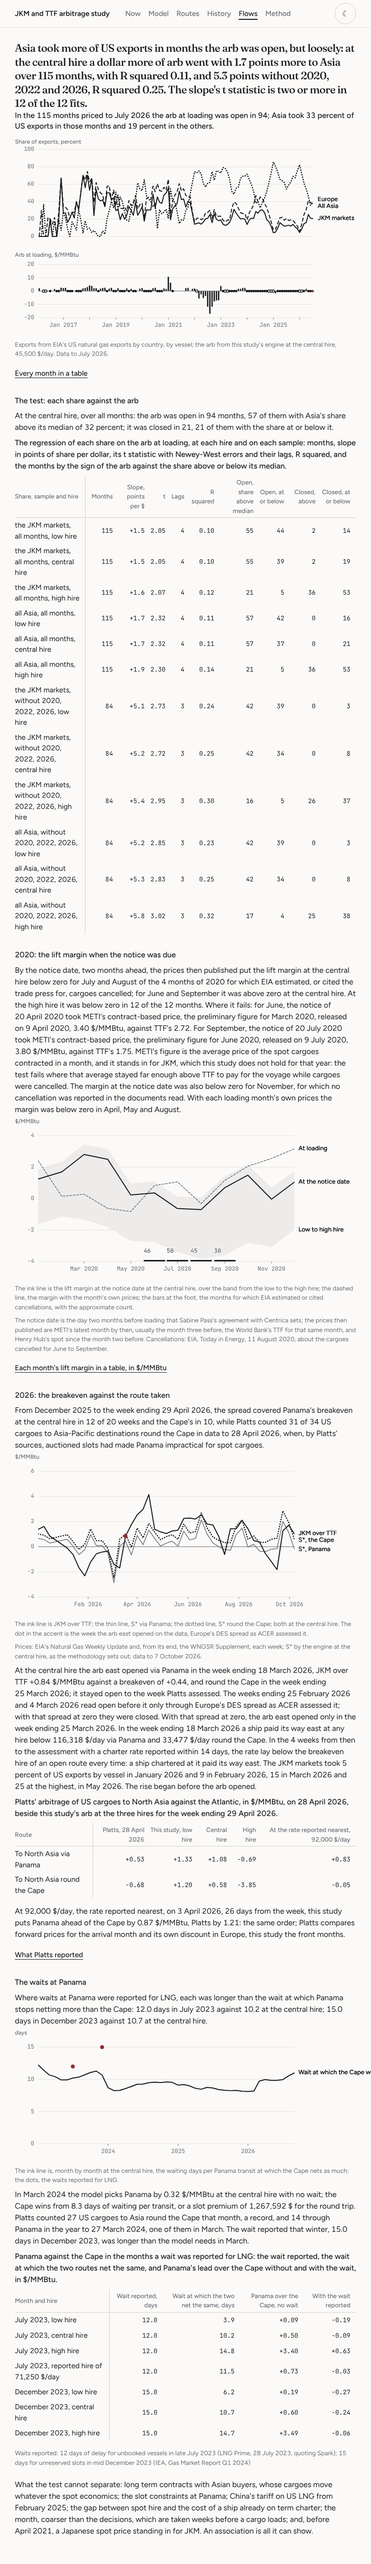
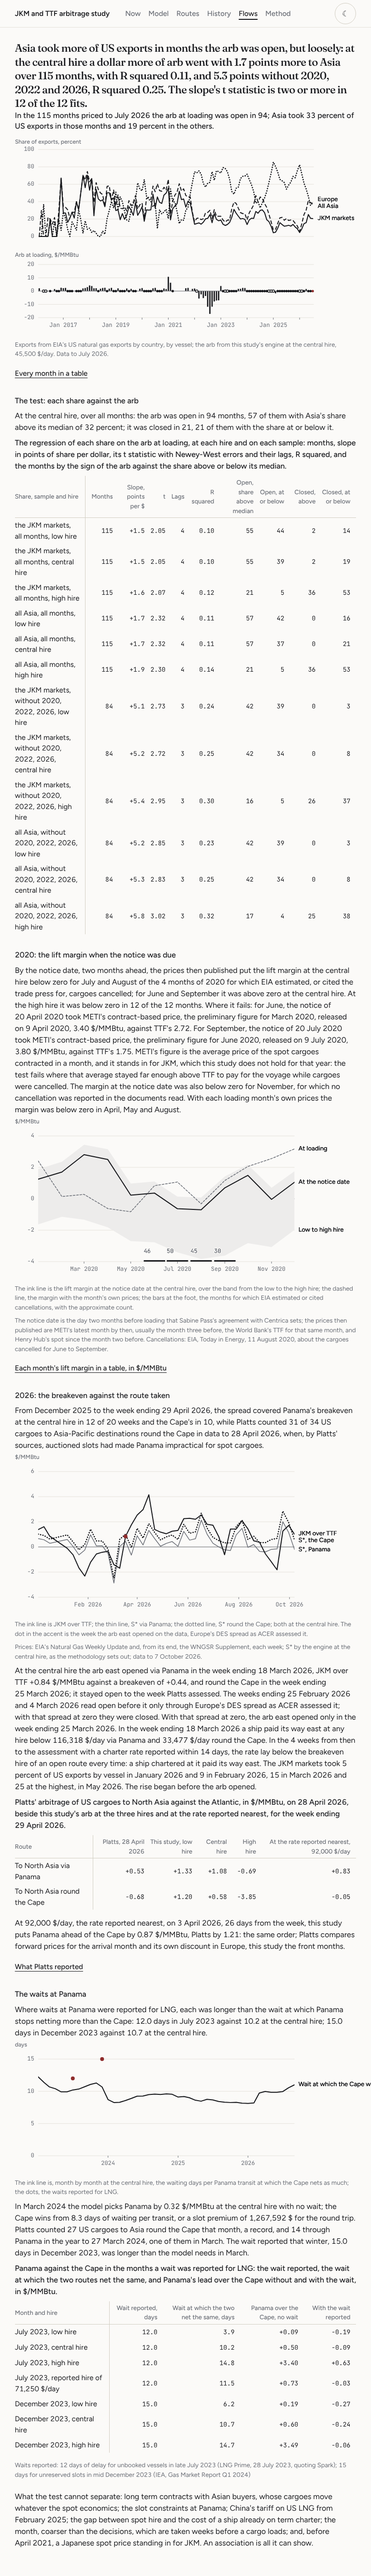
Name the rate reported nearest in the comparison's caption, and guard its sentence against a closed route and a gap of one day

diff --git a/index.html b/index.html
@@ -43,7 +43,7 @@
 <script type="importmap">
 {
   "imports": {
-    "./data/flows.json": "./data/flows.json?v=4887d74140ff",
+    "./data/flows.json": "./data/flows.json?v=3f5fc3e877a0",
     "./data/history.json": "./data/history.json?v=d403cb2f754f",
     "./data/manifest.json": "./data/manifest.json?v=6e673141896f",
     "./data/method.json": "./data/method.json?v=67e5da284c15",

diff --git a/src/lngarb/flowspage.py b/src/lngarb/flowspage.py
@@ -293,7 +293,8 @@ def _y2026(rows: pd.DataFrame, months: Sequence[Mapping[str, Any]] = (),
         "compare_caption_segments": [
             reader.T("Platts' arbitrage of US cargoes to North Asia against the Atlantic, in $/MMBtu, on "),
             reader.D("assessment_day", latest_cape.period),
-            reader.T(", beside this study's arb at the three hires for the week ending "),
+            reader.T(", beside this study's arb at the three hires and at the rate reported nearest, for the week "
+                     "ending "),
             reader.D("assessment_week", week), reader.T("."),
         ],
         "compare": compare,
@@ -427,14 +428,15 @@ def _compare_words(assessments: Mapping[str, Any], at_anchor: Mapping[str, Any],
                    gap: int) -> list[dict[str, Any]]:
     """Whether the study at the rate reported nearest puts the two routes in Platts' order, and how far apart."""
     T, N, D = reader.T, reader.N, reader.D
-    ours = {r: _finite(at_anchor["east"]["nea_" + r]["arb"]) for r in ("panama", "cape")}
+    ours = {r: (_finite(at_anchor["east"]["nea_" + r]["arb"]) if at_anchor["east"]["nea_" + r]["open"] else None)
+            for r in ("panama", "cape")}
     if any(v is None for v in ours.values()):
         return []
     theirs = {r: assessments[r].figure for r in ("panama", "cape")}
     same_order = (ours["panama"] > ours["cape"]) == (theirs["panama"] > theirs["cape"])
     return [T("At "), N("anchor_hire", anchor.hire_usd_day, "usd_day"), T(" $/day, the rate reported nearest, on "),
             D("anchor_day", worked._anchor_day(anchor)), T(", "), N("anchor_gap", gap, "count"),
-            T(" days from the week, this study puts Panama " + ("ahead of" if ours["panama"] > ours["cape"] else "behind")
+            T(reader.plural(gap, " day", " days") + " from the week, this study puts Panama " + ("ahead of" if ours["panama"] > ours["cape"] else "behind")
               + " the Cape by "), N("our_gap", abs(ours["panama"] - ours["cape"]), "usd_mmbtu"),
             T(" $/MMBtu, Platts by "), N("their_gap", abs(theirs["panama"] - theirs["cape"]), "usd_mmbtu"),
             T(": " + ("the same order" if same_order else "the opposite order") + "; Platts compares forward prices "

diff --git a/src/lngarb/analysis.py b/src/lngarb/analysis.py
@@ -176,8 +176,9 @@ def _monthly(weekly: pd.DataFrame) -> pd.DataFrame:
             "ttf_source": "mean of %d weekly averages, EIA %s, %s" % (len(group), source, month.strftime("%B %Y")),
             "basis": "mean of the month's weekly averages: " + "; ".join(sorted(set(group["basis"]))),
             "weeks": len(group),
-            # The share of the month's trading days, over its weeks, on which the
-            # two front months named the same delivery month.
+            # The mean over the month's weeks of each week's share of trading days
+            # on which the two front months named the same delivery month; a week
+            # straddling the month's end counts whole.
             "aligned_share": float(group["aligned_share"].mean()),
             "alignment": ("aligned" if group["aligned_share"].mean() == 1 else
                           "misaligned" if group["aligned_share"].mean() == 0 else "mixed"),
